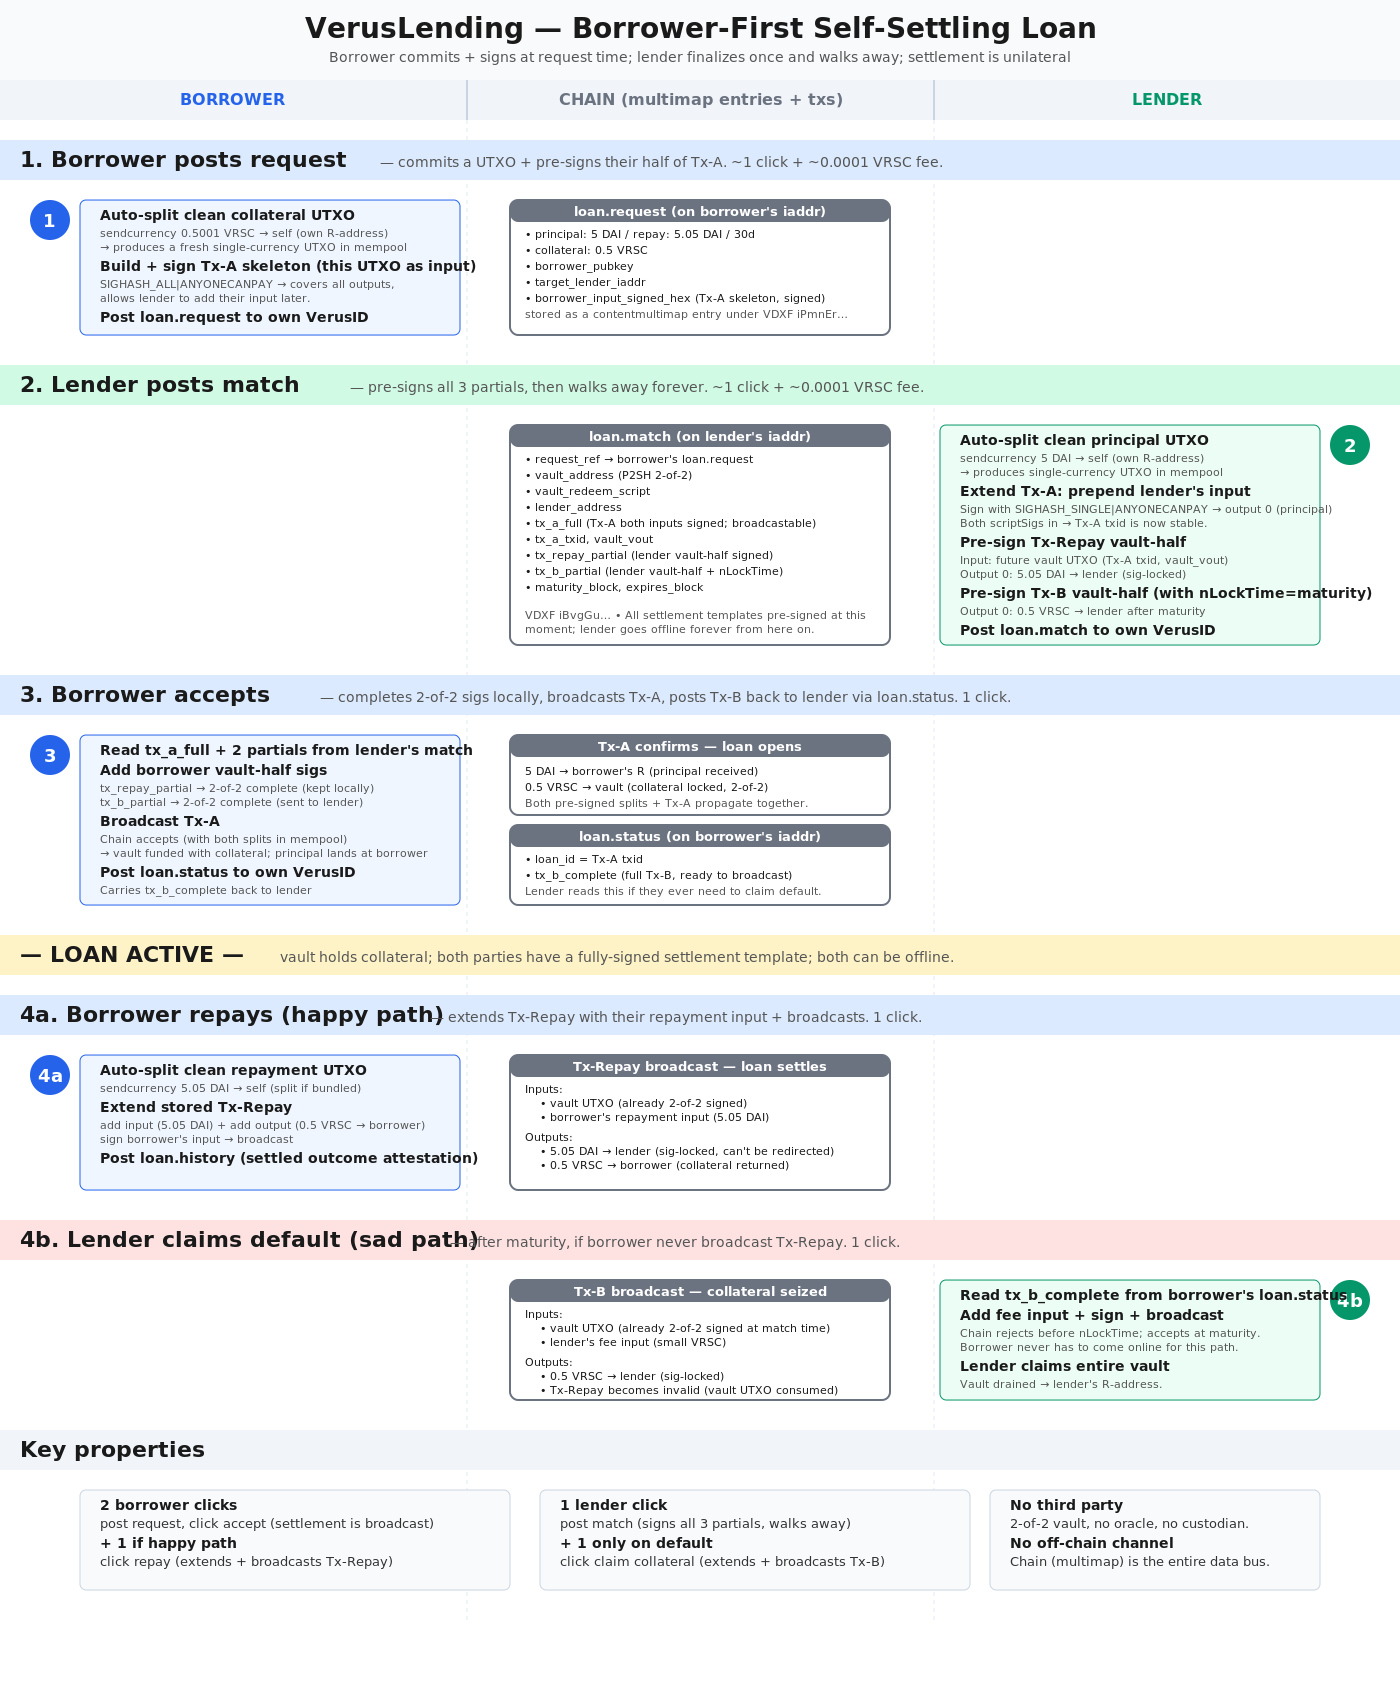
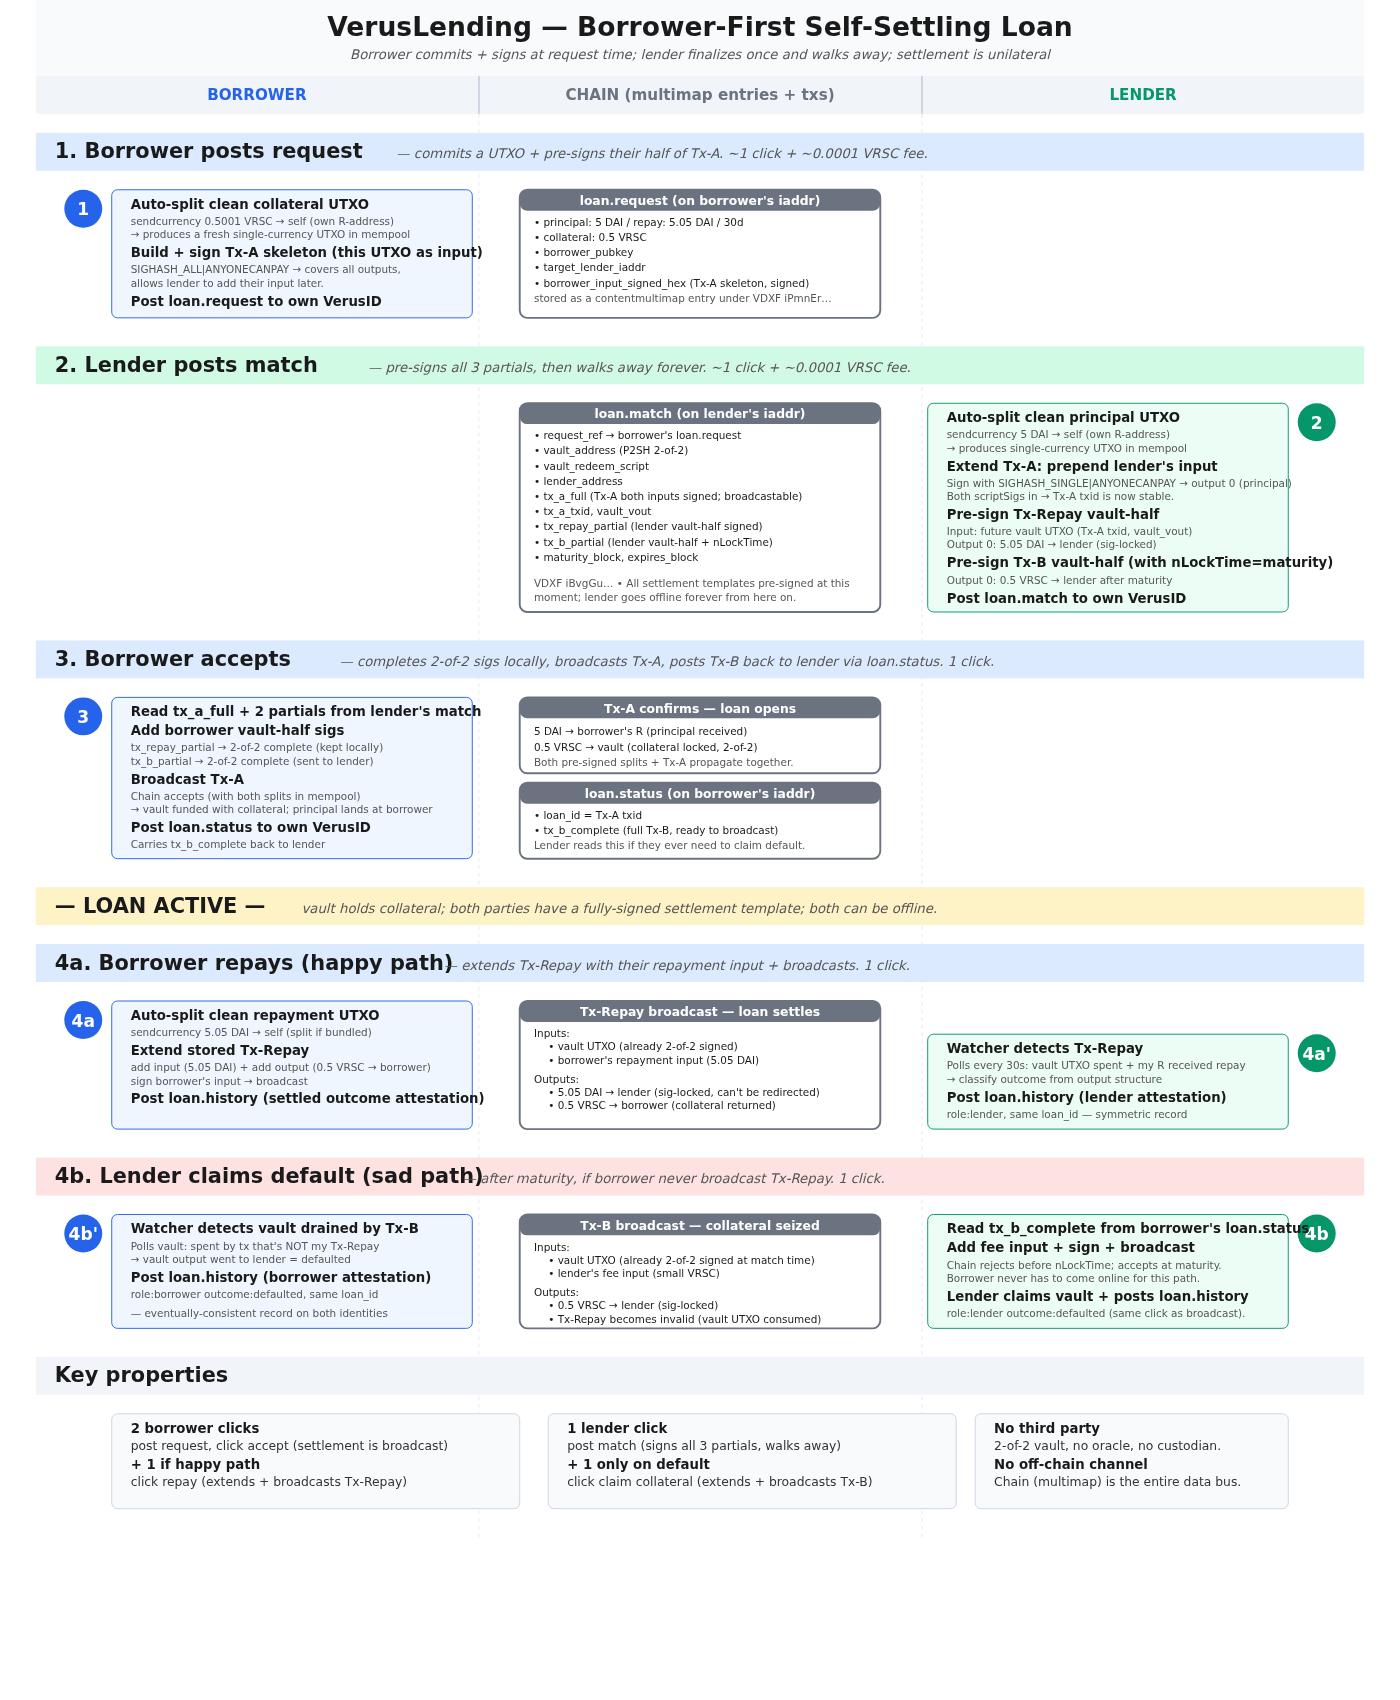
Diagram: add symmetric history attestation steps + helpers/recover_vault.sh
Diagram updates (4a' borrower-side already wired, 4a' lender new + 4b'
borrower new) reflect the symmetric attestation just landed in the GUI:
both parties post loan.history at settlement, regardless of who triggered
the on-chain settlement tx. Repay path: borrower writes at click, lender's
watcher detects + writes within ~30s. Default path: lender writes at
broadcast click, borrower's watcher detects vault drain + writes.

helpers/recover_vault.sh: moved from verus_contract_gui/test/. Pure RPC
cooperative 2-of-2 drain for half-finished test scenarios. Lives next
to extend_tx.py since both are protocol-level chain helpers, not GUI
code. The e2e suite shells out to it via the new path.

diff --git a/helpers/README.md b/helpers/README.md
@@ -4,6 +4,23 @@ Small utilities for running the protocol's recipes from a Verus node. These are 
 
 ## Available helpers
 
+### `recover_vault.sh`
+
+Cooperative 2-of-2 vault drain used to recover from a half-finished settlement (e.g., a test that crashed after Tx-A confirmed but before Tx-Repay broadcast). Idempotent — exits 0 immediately if the vault is empty.
+
+```bash
+bash recover_vault.sh
+```
+
+Steps:
+1. Borrower → lender: 5.05 DAI repay via `sendcurrency`
+2. Both sign + broadcast a fresh vault drain (10 VRSC → borrower)
+3. Wait for confirmation
+
+Hardcoded for the test wallets (`bSe1gaBoZJqcBTMuTi6VYevXrRLz5XZ8Kj` vault, `RSiyiZ92…` borrower, `RKGN34Uh…` lender via SSH to `86.107.168.44:2400`). Adapt for other party pairs by editing the constants at the top of the script.
+
+Used by the GUI repo's e2e suite ([`verus_contract_gui/test/e2e_v3_scenarios.mjs`](https://github.com/Fried333/verus_contract_gui/blob/main/test/e2e_v3_scenarios.mjs)) — invoked via `bash /home/dev/veruslending/helpers/recover_vault.sh` (override path with `RECOVER_VAULT` env var).
+
 ### `extend_tx.py`
 
 Core utility. Takes a pre-signed tx hex and adds new inputs/outputs while preserving existing scriptSigs.
